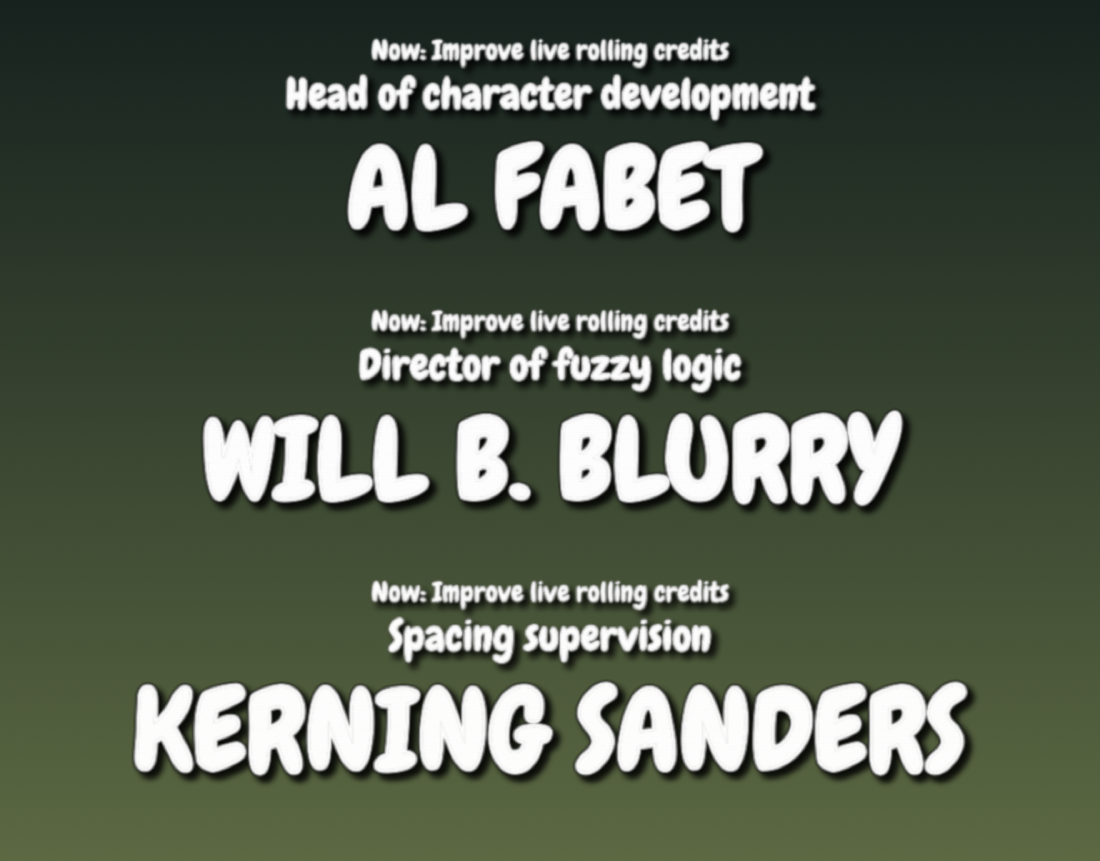
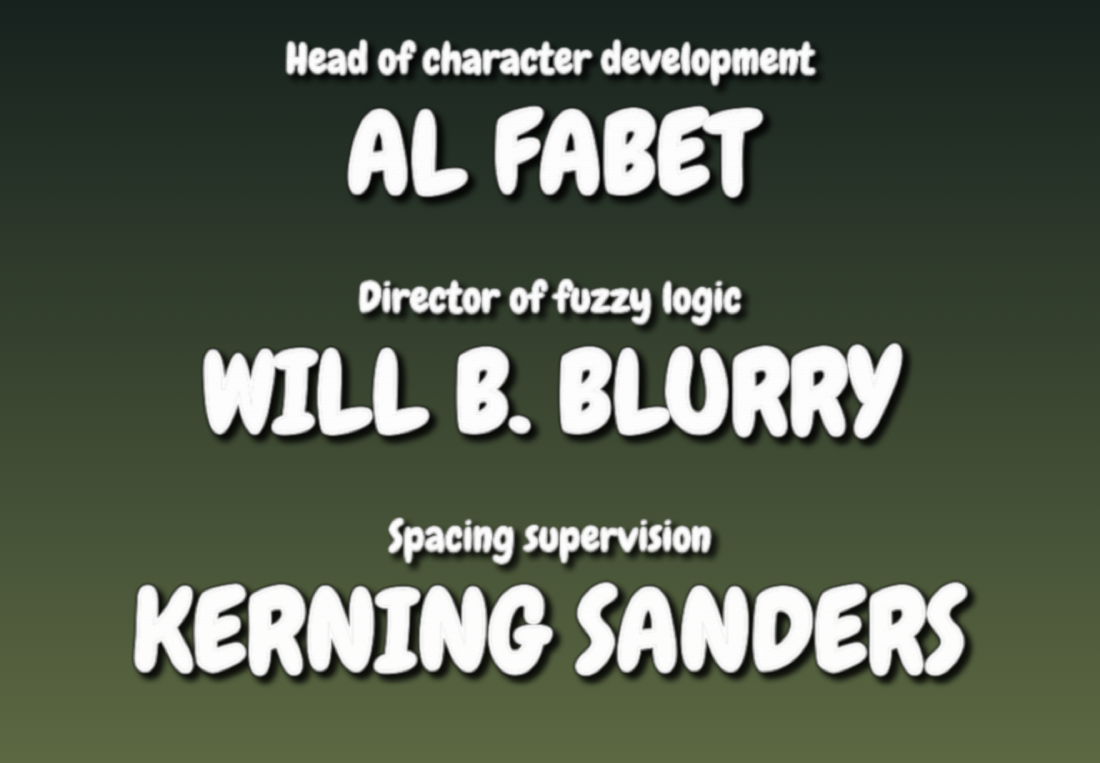
Make task topics optional in centered full-screen credits

Changed region(s): [[0.1236, 0.6632, 0.8964, 0.9345], [0.1855, 0.3617, 0.8345, 0.6029], [0.2473, 0.0301, 0.7418, 0.3014]]

diff --git a/Sources/App.swift b/Sources/App.swift
@@ -140,17 +140,14 @@ final class ChaseSceneApp: NSObject, NSApplicationDelegate, NSMenuDelegate {
         let unknown = state.sessions.values.contains { $0.uncertain }
         var image = NSImage(systemSymbolName: active ? "figure.run" : "music.note", accessibilityDescription: appName)
             ?? NSImage(systemSymbolName: active ? "cursorarrow.rays" : "music.note", accessibilityDescription: appName)
-        if active {
-            // Status-bar buttons ignore tint on template images, so color the symbol itself.
-            let color: NSColor = unknown ? .systemOrange : .systemGreen
-            image = image?.withSymbolConfiguration(NSImage.SymbolConfiguration(paletteColors: [color]))
-            image?.isTemplate = false
-        } else {
-            image?.isTemplate = true
-        }
+        // Color the symbol itself: menu-bar buttons can ignore tint on template images.
+        image = image?.withSymbolConfiguration(NSImage.SymbolConfiguration(paletteColors: [.white]))
+        image?.isTemplate = false
         button.image = image
+        button.contentTintColor = .white
         button.imagePosition = .imageLeft
-        button.title = active && unknown ? " ?" : ""
+        button.attributedTitle = NSAttributedString(string: active && unknown ? " ?" : "",
+            attributes: [.foregroundColor: NSColor.white])
         let who = state.sessions.values.map { $0.agent }.sorted().joined(separator: ", ")
         button.toolTip = active ? (unknown ? "Chase Scene: control state unknown" : "Chase Scene: \(who) is driving")
                                 : "Chase Scene: waiting for control signals"
@@ -348,12 +345,16 @@ final class ChaseSceneApp: NSObject, NSApplicationDelegate, NSMenuDelegate {
         var items = [action("Preview credits (silent, 16 seconds)", #selector(previewCredits))]
         if credits.previewing { items.append(action("Stop preview", #selector(stopCreditsPreview))) }
         items.append(.separator())
-        let full = action("Across the screen", #selector(fullCredits))
+        let full = action("Full screen (centered)", #selector(fullCredits))
         full.state = state.preferences.creditsLayout == "full" ? .on : .off
         items.append(full)
         let corner = action("In the corner", #selector(cornerCredits))
         corner.state = state.preferences.creditsLayout == "corner" ? .on : .off
         items.append(corner)
+        items.append(.separator())
+        let topic = action("Show task topic", #selector(toggleCreditsTopic))
+        topic.state = state.preferences.creditsShowTopic ? .on : .off
+        items.append(topic)
         items.append(.separator())
         items.append(label("Font: \(state.preferences.creditsFontName ?? "Chewy")"))
         items.append(action("Choose font file…", #selector(chooseCreditsFont)))
@@ -387,6 +388,10 @@ final class ChaseSceneApp: NSObject, NSApplicationDelegate, NSMenuDelegate {
     @objc func cornerCredits() {
         credits.stopPreview()
         _ = state.handle(["action": "set_credits_layout", "layout": "corner"])
+    }
+    @objc func toggleCreditsTopic() {
+        credits.stopPreview()
+        _ = state.handle(["action": "set_credits_show_topic", "enabled": !state.preferences.creditsShowTopic])
     }
     @objc func resetCreditsFont() {
         state.preferences.creditsFontName = nil

diff --git a/Resources/Help.html b/Resources/Help.html
@@ -24,12 +24,12 @@
 <ul><li>Claude Code: start a new session after connecting.</li><li>Codex: review and approve the added hooks with <code>/hooks</code>, then start a new session.</li></ul>
 <p>The menu's <strong>Chase music</strong> toggle and volume slider control sound. <strong>Rolling credits</strong> independently enables fictional task-related jokes over your desktop. <strong>Open at login</strong> is under Settings.</p>
 <h2>Rolling credits</h2>
-<p><strong>Settings → Credits options</strong> offers a full-screen or corner layout and a silent 16-second preview. Large white letters with a dark outline and shadow scroll continuously from bottom to top. Each credit includes the current activity. Fresh updates enter without restarting the roll or repeating a fixed six-name reel. The transparent overlay does not take focus or intercept clicks. Choose an OTF or TTF font file to customize the lettering.</p>
+<p><strong>Settings → Credits options</strong> defaults to large, centered, full-screen credits and also offers a corner layout and a silent 16-second preview. Large white letters with a dark outline and shadow scroll continuously from bottom to top. By default, credits show only the role and name. Turn on <strong>Show task topic</strong> to add the current activity above them. Fresh updates enter without restarting the roll or repeating a fixed six-name reel. The transparent overlay does not take focus or intercept clicks. Choose an OTF or TTF font file to customize the lettering.</p>
 <p>The included Chewy font is an approximation, not a verified match to the Benny Hill credits. The softened, lower-resolution rendering adds subtle scanlines and grain to every font.</p>
 <h2>The music</h2>
 <p>The original <code>mouse_control_theme.mp3</code> is bundled as the default. Restore it with <strong>Use Original chase theme</strong>. <strong>Use Hot Potato Hustle</strong> selects Spudnik's alternative composition. <strong>Choose your own song…</strong> accepts MP3, M4A, WAV and AIFF.</p>
 <h2>Control ends or the signal is lost</h2>
-<p>Music and credits stop when the last live session ends, is interrupted or expires. An orange <strong>?</strong> preserves a lost-signal warning until a fresh control start or you clear it. Restarting the app and late hook renewals do not resume stale playback. A signal is an indicator, not an input lock or a guarantee that your AI has stopped.</p>
+<p>Music and credits stop when the last live session ends, is interrupted or expires. A <strong>?</strong> preserves a lost-signal warning until a fresh control start or you clear it. Restarting the app and late hook renewals do not resume stale playback. A signal is an indicator, not an input lock or a guarantee that your AI has stopped.</p>
 <h2>Optional mouse detection</h2>
 <p><strong>Detect software mouse input (experimental)</strong> is off by default on new installs. It can notice posted mouse events but cannot reliably identify AI control. Ordinary utilities can trigger it; choose <strong>Not an AI? Ignore “…”</strong> or switch it off. Detected activity ends about 20 seconds after input stops. Upgrades keep existing preferences.</p>
 <h2>MCP and funny task credits</h2>

diff --git a/Sources/Core.swift b/Sources/Core.swift
@@ -1,7 +1,7 @@
 import Foundation
 
 let appName = "Chase Scene"
-let appVersion = "1.2.0"
+let appVersion = "1.2.1"
 
 struct ControlSession: Codable {
     let id: String
@@ -29,6 +29,7 @@ struct Preferences: Codable {
     var lastSignal: [String: Double] = [:]
     var creditsEnabled = false
     var creditsLayout = "full"
+    var creditsShowTopic = false
     var creditsFontName: String? = nil
     var creditsFontPath: String? = nil
 
@@ -47,6 +48,7 @@ struct Preferences: Codable {
         lastSignal = (try? c.decodeIfPresent([String: Double].self, forKey: .lastSignal)) ?? [:]
         creditsEnabled = (try? c.decodeIfPresent(Bool.self, forKey: .creditsEnabled)) ?? false
         creditsLayout = (try? c.decodeIfPresent(String.self, forKey: .creditsLayout)) == "corner" ? "corner" : "full"
+        creditsShowTopic = (try? c.decodeIfPresent(Bool.self, forKey: .creditsShowTopic)) ?? false
         creditsFontName = try? c.decodeIfPresent(String.self, forKey: .creditsFontName)
         creditsFontPath = try? c.decodeIfPresent(String.self, forKey: .creditsFontPath)
     }
@@ -241,6 +243,10 @@ final class ControlState {
                 }
                 preferences.creditsLayout = value
                 didChange = true
+            case "set_credits_show_topic":
+                guard let value = request["enabled"] as? Bool else { throw ControlError.invalid("enabled must be true or false.") }
+                preferences.creditsShowTopic = value
+                didChange = true
             case "set_credits":
                 guard let deck = try Credits.parse(request) else { throw ControlError.invalid("Provide a task or credits.") }
                 let ids: [String]
@@ -291,6 +297,7 @@ final class ControlState {
             "ok": true, "app": appName, "version": appVersion,
             "enabled": preferences.enabled, "volume": preferences.volume,
             "credits_enabled": preferences.creditsEnabled, "credits_layout": preferences.creditsLayout,
+            "credits_show_topic": preferences.creditsShowTopic,
             "credits_task": currentCredits.task,
             "auto_detect": preferences.autoDetect, "ignored_apps": preferences.ignoredApps,
             "state": stateName,

diff --git a/Sources/CreditsOverlay.swift b/Sources/CreditsOverlay.swift
@@ -21,7 +21,7 @@ enum CreditsPainter {
         let corner = preferences.creditsLayout == "corner"
         let name: CGFloat = corner ? 57 : max(112, min(180, width * 0.074))
         let role: CGFloat = corner ? 30 : max(42, min(64, width * 0.028))
-        let activity: CGFloat = corner ? 18 : 27
+        let activity: CGFloat = preferences.creditsShowTopic ? (corner ? 18 : 27) : 0
         return (name, role, activity, name * 1.24 + role * 1.28 + activity * 1.2 + (corner ? 32 : 46))
     }
 
@@ -41,8 +41,10 @@ enum CreditsPainter {
         graphics.cgContext.scaleBy(x: scale, y: scale)
         for (index, credit) in deck.credits.enumerated() {
             let top = height - 16 - CGFloat(index) * style.height
-            draw("Now: " + deck.task, y: top - style.activity * 1.15, size: style.activity,
-                 width: width, preferences: preferences, caps: false)
+            if preferences.creditsShowTopic {
+                draw("Now: " + deck.task, y: top - style.activity * 1.15, size: style.activity,
+                     width: width, preferences: preferences, caps: false)
+            }
             draw(credit.role, y: top - style.activity * 1.25 - style.role * 1.22, size: style.role,
                  width: width, preferences: preferences, caps: false)
             draw(credit.name.uppercased(), y: top - style.activity * 1.25 - style.role * 1.3 - style.name * 1.22,
@@ -151,7 +153,7 @@ final class CreditRollView: NSView {
     func configure(deck: CreditDeck, preferences: Preferences) {
         stream.update(deck)
         setAccessibilityLabel("Fictional rolling credits for \(deck.task)")
-        let appearance = "\(bounds.width):\(bounds.height):\(preferences.creditsLayout):\(preferences.creditsFontName ?? "Chewy-Regular"):\(preferences.creditsFontPath ?? "")"
+        let appearance = "\(bounds.width):\(bounds.height):\(preferences.creditsLayout):\(preferences.creditsShowTopic):\(preferences.creditsFontName ?? "Chewy-Regular"):\(preferences.creditsFontPath ?? "")"
         guard renderKey != appearance || rowTimer == nil else { return }
         stop()
         self.preferences = preferences

diff --git a/tests/integration.py b/tests/integration.py
@@ -107,7 +107,7 @@ class RunningAppTests(unittest.TestCase):
         self.assertEqual(begun['state'], 'controlling')
         self.run_binary('signal', json.dumps({'action': 'end', 'session_id': 'cli'}))
         self.assertEqual(self.send({'action': 'status'})['state'], 'idle')
-        self.assertEqual(self.run_binary('version').stdout.strip(), '1.2.0')
+        self.assertEqual(self.run_binary('version').stdout.strip(), status['version'])
 
     def test_parallel_sessions_and_owner_isolation(self):
         def begin(i):
@@ -247,7 +247,7 @@ class RunningAppTests(unittest.TestCase):
             status = self.send({'action': 'status'})
             self.assertTrue(status['credits_scrolling'])
             self.assertGreater(status['credits_active_rows'], 0)
-            self.assertLessEqual(status['credits_active_rows'], 6)
+            self.assertLessEqual(status['credits_active_rows'], 7)
             self.assertEqual(status['credits_scroll_id'], scroll_id)
             seen.add(status['credits_last_name'])
             if status['credits_rows_emitted'] > 7:

diff --git a/README.md b/README.md
@@ -102,11 +102,11 @@ Spudnik's **Hot Potato Hustle** is also bundled as an optional alternative under
 
 ## Rolling credits
 
-Turn on **Rolling credits** in the menu. Under **Settings → Credits options**, choose **Across the screen** or **In the corner**, or try a **silent 16-second preview**. Credits work independently of the music toggle. The overlay doesn't take focus or intercept clicks.
+Turn on **Rolling credits** in the menu. Under **Settings → Credits options**, the default is **Full screen (centered)** with large lettering. Choose **In the corner** if you prefer a smaller overlay, or try a **silent 16-second preview**. Credits work independently of the music toggle. The overlay doesn't take focus or intercept clicks.
 
 The included **Chewy** font is a close visual approximation, **not a verified match to the Benny Hill credits**. Choose an OTF or TTF file to use another font. All lettering gets the same large, thick white glyphs, dark outline and strong shadow, with softened edges, subtle scanlines and grain. Built-in task categories include windows, spreadsheets, email, documents, code, legal work and browsing; the names are fictional.
 
-Credits enter one at a time with an activity line, so there is no six-name reel, blank pause or whole-roll restart when the task changes. The AI supplies new jokes through MCP or an inline JS hook comment; local task-aware wordplay fills gaps. See the [agent guide](AGENT_GUIDE.md) for the live format.
+By default, each credit shows only the role and fictional name. Turn on **Show task topic** under **Credits options** to add the current activity above them. Credits enter continuously, without a six-name reel, blank pause or whole-roll restart when the task changes. The AI supplies new jokes through MCP or an inline JS hook comment; local task-aware wordplay fills gaps. See the [agent guide](AGENT_GUIDE.md) for the live format.
 
 The app uses native AppKit, an audio player and Core Animation. No browser, Electron, external AI call or per-frame CPU timer is needed. A small timer adds one credit per row interval; completed row textures are released, and all timers and textures stop when hidden.
 
@@ -121,8 +121,8 @@ Automatic sessions end about 20 seconds after the last detected input. Use **Not
 | Icon | Meaning |
 | --- | --- |
 | ♪ | Idle, waiting for control signals |
-| 🏃 green | An AI (or other software) is driving |
-| 🏃 orange **?** | A connected AI tool stopped reporting or was interrupted. Music and credits stop; the warning stays until the session is cleared or explicitly restarted. |
+| 🏃 white | An AI (or other software) is driving |
+| 🏃 white **?** | A connected AI tool stopped reporting or was interrupted. Music and credits stop; the warning stays until the session is cleared or explicitly restarted. |
 
 The menu has **Chase music** and **Rolling credits** toggles, a **volume** slider, a music preview, and **Settings**. Settings contains credits options, song choices, AI connections, optional software input detection, ignored apps, and Open at login.
 

diff --git a/.github/release-notes.md b/.github/release-notes.md
@@ -1,13 +1,12 @@
-Chase Scene 1.2.0 makes credits easier to read and turns them into a continuous workflow feed.
+Chase Scene 1.2.1 restores the classic role-and-name credit layout by default.
 
-- Much larger, heavier white lettering, with a thick dark outline and stronger shadow. The fuzzy television texture remains.
-- Credits enter one at a time, with an activity line. There is no fixed six-name reel or empty pause between loops.
-- New task updates replace only unused credits; visible rows keep moving.
-- The controlling AI can continually author fresh fictional roles and pun names through MCP `set_credits`, or put a `// chase-credits:` JSON comment alongside each JS desktop action. No extra tool call is needed for the hook format.
-- Local task-aware wordplay fills gaps between AI updates; the app makes no external inference calls.
-- Completed row textures are released, and the feed stops when control ends or its signal is lost.
+- Hides the task topic above each credit by default, including on upgrade.
+- Adds **Show task topic** under **Settings → Credits options** for anyone who wants the activity line.
+- Uses **Full screen (centered)** as the default layout, with the same large, bright, heavily shadowed lettering. The corner layout remains available.
+- Renders the menu-bar symbol in white for clear visibility.
+- Keeps the continuous feed of fresh AI-authored roles and pun names. Task context still guides the jokes when the topic line is hidden.
 
-The original `mouse_control_theme.mp3` is still the bundled default. Chewy remains an approximation of the television lettering; custom OTF/TTF fonts are supported.
+The original `mouse_control_theme.mp3` remains the bundled default audio.
 
 Install or update:
 
@@ -15,4 +14,4 @@ Install or update:
 curl -fsSL https://raw.githubusercontent.com/mhrtly/chase-scene/main/install.sh | bash
 ```
 
-Or download **Chase-Scene.zip** below. Universal native app for macOS 13+ (Apple silicon and Intel), ad-hoc signed. For manual downloads, macOS may require **Privacy & Security → Open Anyway** on first launch. See the [README](https://github.com/mhrtly/chase-scene#readme) and [agent guide](https://github.com/mhrtly/chase-scene/blob/main/AGENT_GUIDE.md).
+Or download **Chase-Scene.zip** below. Universal native app for macOS 13+ (Apple silicon and Intel). See the [README](https://github.com/mhrtly/chase-scene#readme) and [agent guide](https://github.com/mhrtly/chase-scene/blob/main/AGENT_GUIDE.md).

diff --git a/AGENT_GUIDE.md b/AGENT_GUIDE.md
@@ -36,6 +36,6 @@ For tools without a JS `code` input, use MCP `set_credits` or the equivalent loc
 
 ## What happens on screen
 
-Large white letters have a thick dark outline and shadow, while keeping the fuzzy television texture. Each credit includes a short activity line. New updates replace unused rows, while visible credits keep scrolling; the next new row enters within one row interval, usually a few seconds.
+Large white letters have a thick dark outline and shadow, while keeping the fuzzy television texture. The default is large, centered, full-screen lettering with only the role and name. The user can turn on **Show task topic** to include the current activity above them; agents should keep sending accurate task context whether the line is visible or hidden. New updates replace unused rows, while visible credits keep scrolling; the next new row enters within one row interval, usually a few seconds.
 
 The app supplies local, task-aware wordplay between AI updates. Those gap fillers are templates, not another AI inference call. The app cannot invent an agent's actual intent from an unlabeled click; the controlling AI supplies that context. Music and credits remain tied to a live control signal. Metadata never begins control by itself.
